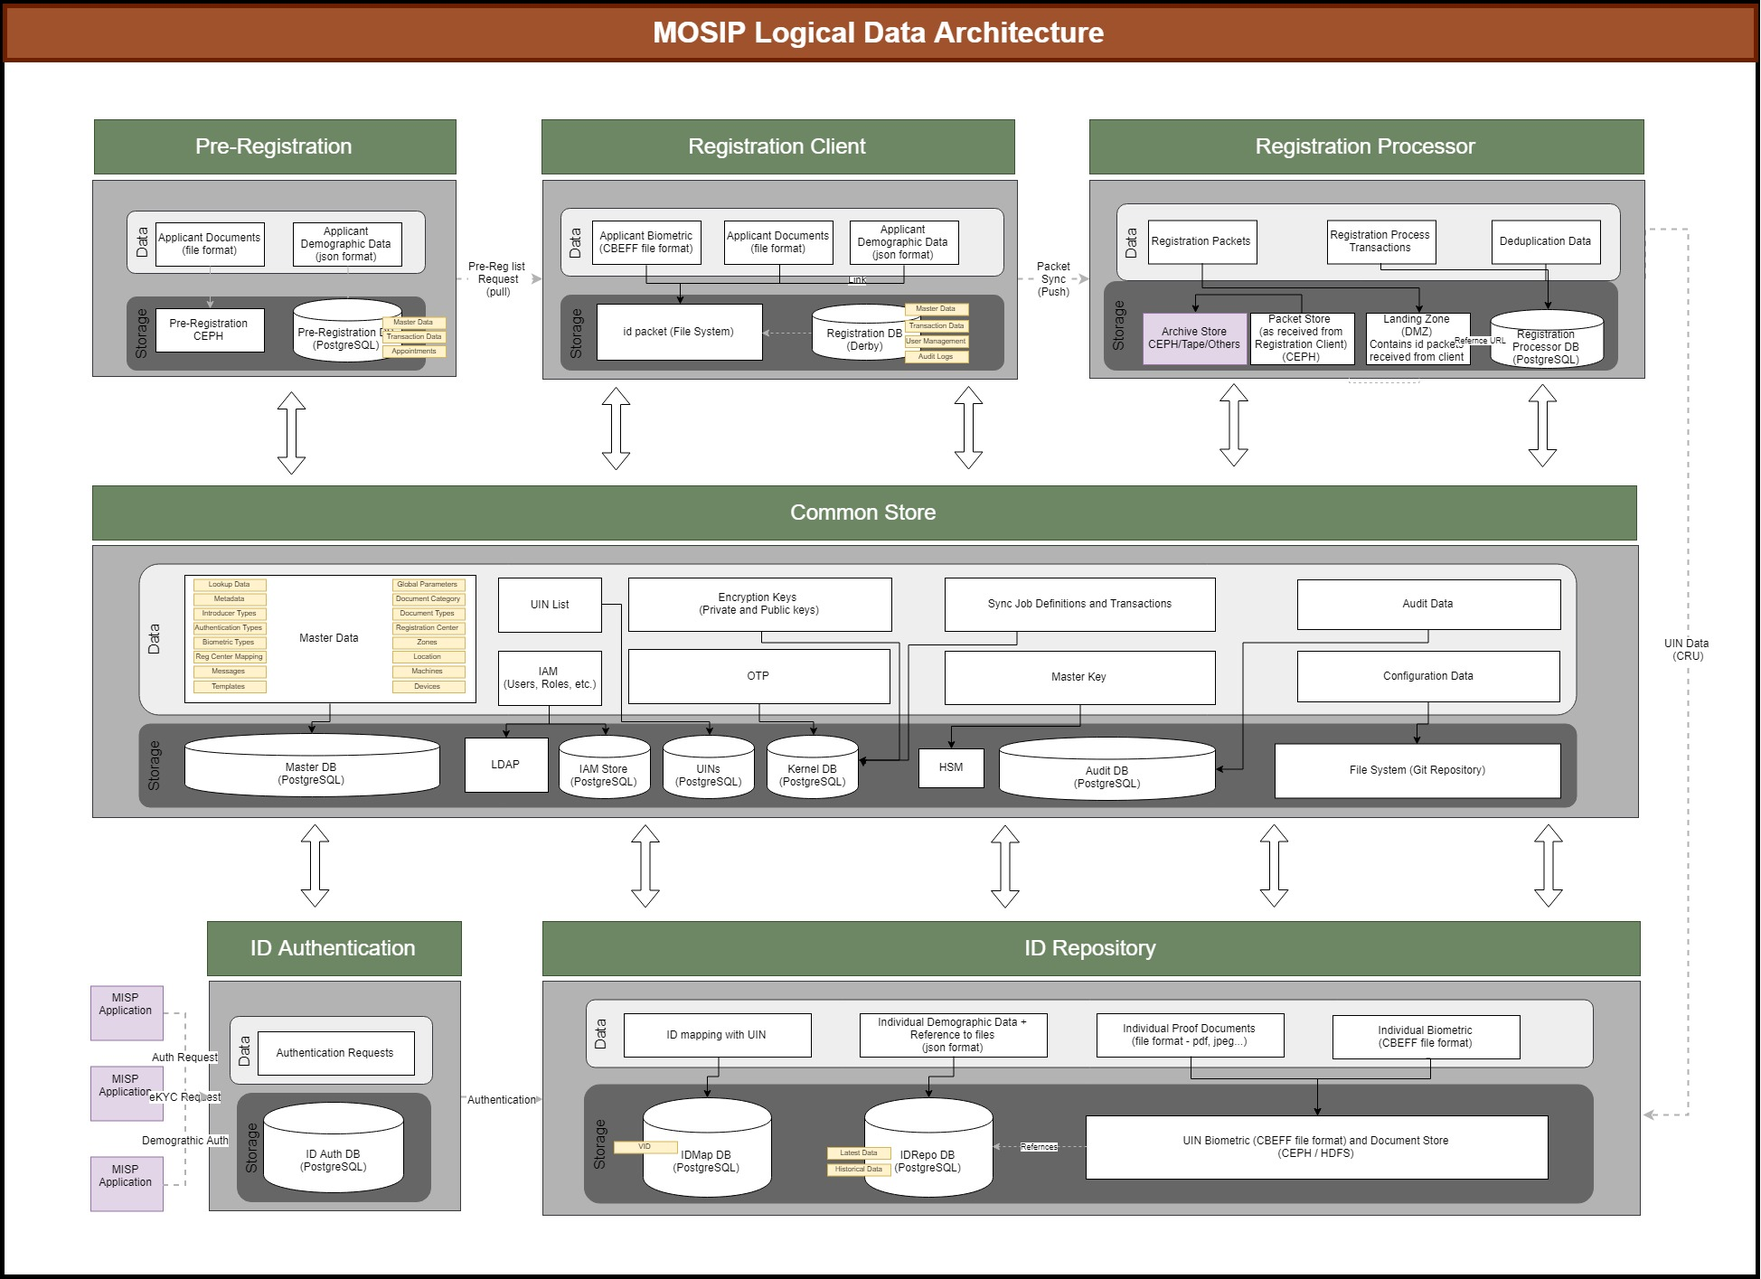
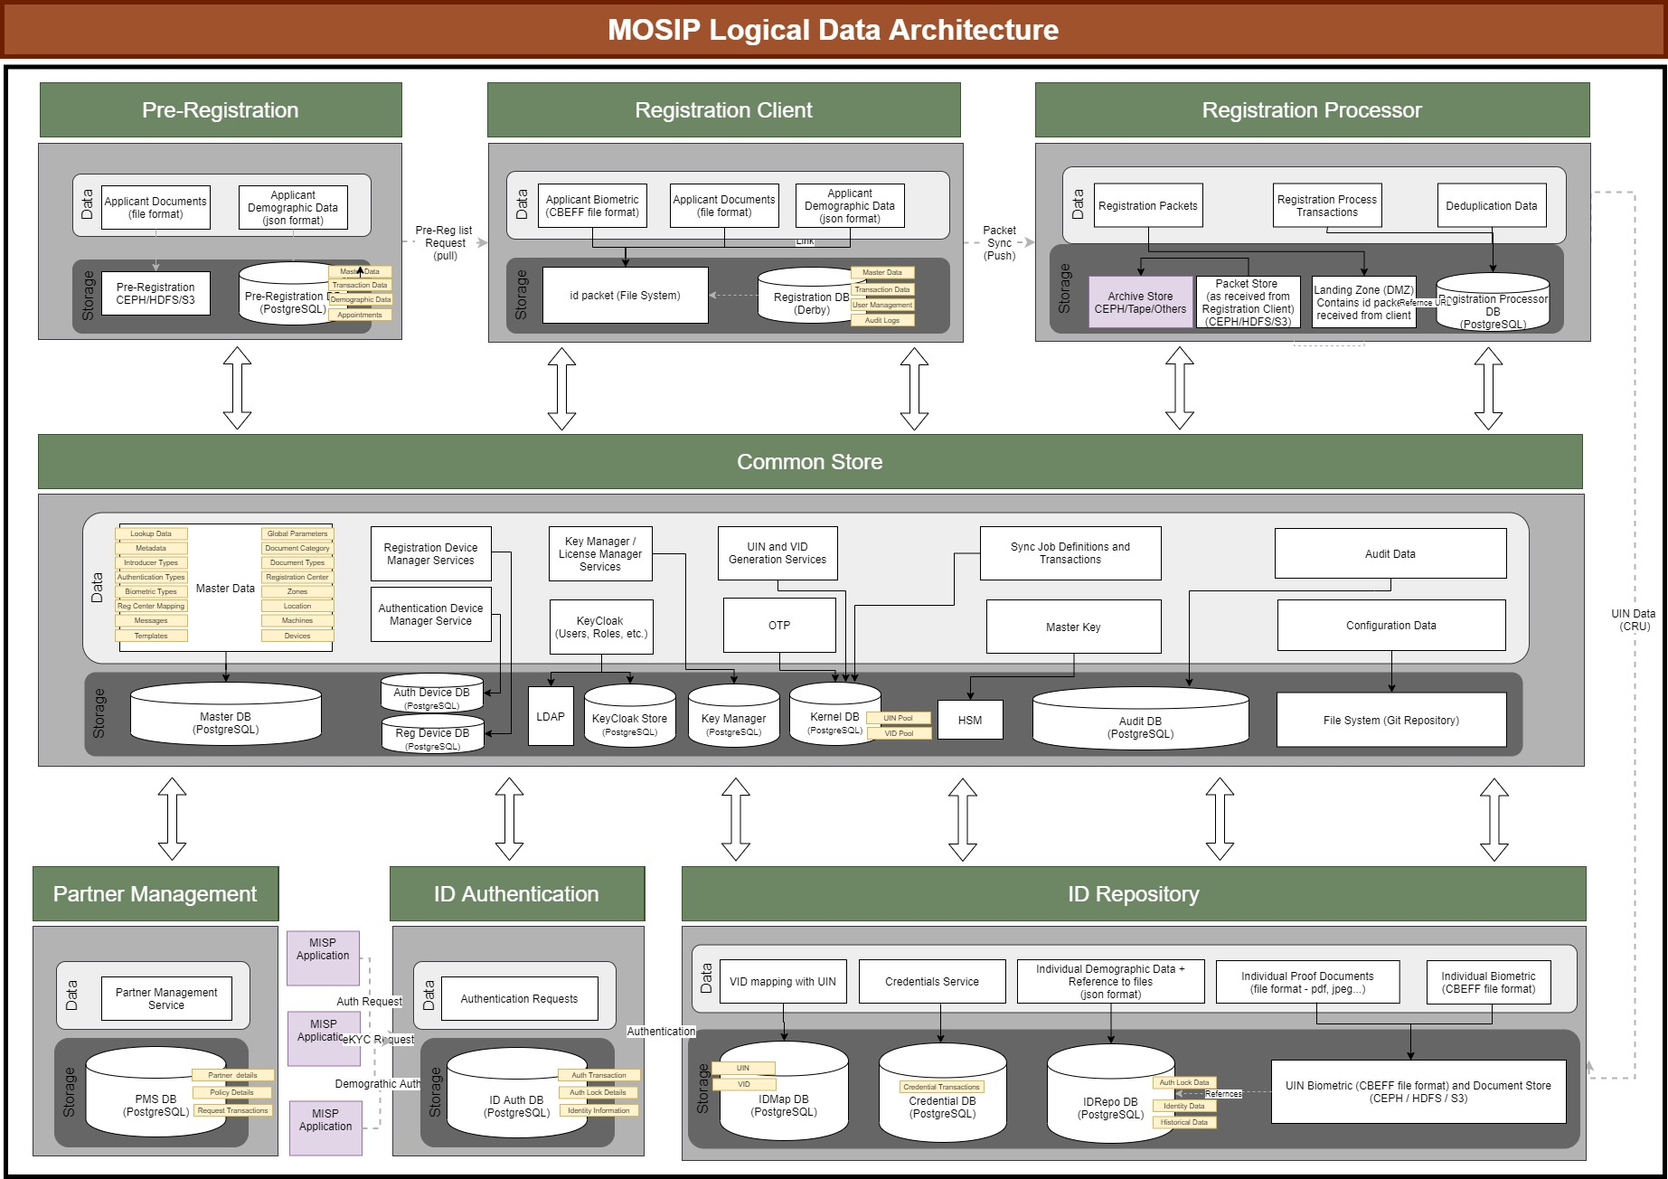
Updated data architecture and database related documents

diff --git a/docs/MOSIP-Data-Model.md b/docs/MOSIP-Data-Model.md
@@ -11,18 +11,22 @@ This section contains details related to MOSIP data model design.The section als
 
 Databases inventory in MOSIP
 
-|Sl No|Database Name|Description|Data Model|Data Dictionary|
+|Sl No|Database Name|Schema Name|Description|Data Model|Data Dictionary|
 |---------|---------|------------|----------|-----------|
-|1|mosip_kernel|Kernel database store security key details, data related to kernel services like sync process, OTP, etc.|<div>[DBM File](https://github.com/mosip/mosip-platform/tree/master/design/data_model/_sources/mosip_kernel.dbm)</div> <div>[Image File ](https://github.com/mosip/mosip-platform/tree/master/design/data_model/_images/mosip_kernel.png)</div>|<div>[mosip_kernel_dd.xlsx ](https://github.com/mosip/mosip-platform/tree/master/design/data_model/mosip_kernel_dd.xlsx)</div>|
-|2|mosip_master|All the master data defined by a country / organization is maintained in mosip_master database. |<div>[DBM File](https://github.com/mosip/mosip-platform/tree/master/design/data_model/_sources/mosip_master.dbm)</div> <div>[Image File ](https://github.com/mosip/mosip-platform/tree/master/design/data_model/_images/mosip_master.png)</div>|<div>[mosip_master_dd.xlsx ](https://github.com/mosip/mosip-platform/tree/master/design/data_model/mosip_master_dd.xlsx)</div>|
-|3|mosip_idrepo|ID repository database stores all the data related to an individual for which an UIN is generated.|<div>[DBM File](https://github.com/mosip/mosip-platform/tree/master/design/data_model/_sources/mosip_idrepo.dbm)</div> <div>[Image File ](https://github.com/mosip/mosip-platform/tree/master/design/data_model/_images/mosip_idrepo.png)</div>|<div>[mosip_idrepo_dd.xlsx](https://github.com/mosip/mosip-platform/tree/master/design/data_model/mosip_idrepo_dd.xlsx)</div>|
-|4|mosip_prereg|Pre-registration database to store the data that is captured as part of pre-registration process and appointments booking.|<div>[DBM File](https://github.com/mosip/mosip-platform/tree/master/design/data_model/_sources/mosip_prereg.dbm)</div> <div>[Image File ](https://github.com/mosip/mosip-platform/tree/master/design/data_model/_images/mosip_prereg.png)</div>|<div>[mosip_prereg_dd.xlsx](https://github.com/mosip/mosip-platform/tree/master/design/data_model/mosip_prereg_dd.xlsx)</div>|
-|5|mosip_reg|Registration client database to capture registration related data. The needed data from MOSIP system will be synched with this database.|<div>[DBM File](https://github.com/mosip/mosip-platform/tree/master/design/data_model/_sources/mosip_reg.dbm)</div> <div>[Image File ](https://github.com/mosip/mosip-platform/tree/master/design/data_model/_images/mosip_reg.png)</div>|<div>[mosip_reg_dd.xlsx](https://github.com/mosip/mosip-platform/tree/master/design/data_model/mosip_reg_dd.xlsx)</div>|
-|6|mosip_regprc|The data related to Registration process flows and transaction will be maintained in this database.|<div>[DBM File](https://github.com/mosip/mosip-platform/tree/master/design/data_model/_sources/mosip_regprc.dbm)</div> <div>[Image File ](https://github.com/mosip/mosip-platform/tree/master/design/data_model/_images/mosip_regprc.png)</div>|<div>[mosip_regprc_dd.xlsx](https://github.com/mosip/mosip-platform/tree/master/design/data_model/mosip_regprc_dd.xlsx)</div>|
-|7|mosip_ida|ID Authentication related requests, transactions will be stored in this database|<div>[DBM File](https://github.com/mosip/mosip-platform/tree/master/design/data_model/_sources/mosip_ida.dbm)</div> <div>[Image File ](https://github.com/mosip/mosip-platform/tree/master/design/data_model/_images/mosip_ida.png)</div>|<div>[mosip_ida_dd.xlsx](https://github.com/mosip/mosip-platform/tree/master/design/data_model/mosip_ida_dd.xlsx)</div>|
-|8|mosip_audit|Audit related logs collected from all modules are stored in this database|<div>[DBM File](https://github.com/mosip/mosip-platform/tree/master/design/data_model/_sources/mosip_audit.dbm)</div> <div>[Image File ](https://github.com/mosip/mosip-platform/tree/master/design/data_model/_images/mosip_audit.png)</div>|<div>[mosip_audit_dd.xlsx](https://github.com/mosip/mosip-platform/tree/master/design/data_model/mosip_audit_dd.xlsx)</div>|
-|9|mosip_iam|The users and roles management related data are stored in this database|<div>[DBM File](https://github.com/mosip/mosip-platform/tree/master/design/data_model/_sources/mosip_iam.dbm)</div> <div>[Image File ](https://github.com/mosip/mosip-platform/tree/master/design/data_model/_images/mosip_iam.png)</div>|<div>[mosip_iam_dd.xlsx](https://github.com/mosip/mosip-platform/tree/master/design/data_model/mosip_iam_dd.xlsx)</div>|
-|10|mosip_idmap|Database to store and manage all the data related to mapping between various IDs, like vid with UIN of an individual|<div>[DBM File](https://github.com/mosip/mosip-platform/tree/master/design/data_model/_sources/mosip_idmap.dbm)</div> <div>[Image File ](https://github.com/mosip/mosip-platform/tree/master/design/data_model/_images/mosip_idmap.png)</div>|<div>[mosip_idmap_dd.xlsx](https://github.com/mosip/mosip-platform/tree/master/design/data_model/mosip_idmap_dd.xlsx)</div>|
+|1|mosip_kernel|kernel|Kernel database store security key details, data related to kernel services like sync process, OTP, etc.|<div>[DBM File](https://github.com/mosip/commons/tree/master/design/data_model/_sources/mosip_kernel.dbm)</div> <div>[Image File ](https://github.com/mosip/commons/tree/master/design/data_model/_images/mosip_kernel.png)</div>|<div>[mosip_kernel_dd.xlsx ](https://github.com/mosip/commons/tree/master/design/data_model/mosip_kernel_dd.xlsx)</div>|
+|2|mosip_master|master|All the master data defined by a country / organization is maintained in mosip_master database. |<div>[DBM File](https://github.com/mosip/commons/tree/master/design/data_model/_sources/mosip_master.dbm)</div> <div>[Image File ](https://github.com/mosip/commons/tree/master/design/data_model/_images/mosip_master.png)</div>|<div>[mosip_master_dd.xlsx ](https://github.com/mosip/commons/tree/master/design/data_model/mosip_master_dd.xlsx)</div>|
+|3|mosip_idrepo|idrepo|ID repository database stores all the data related to an individual for which an UIN is generated.|<div>[DBM File](https://github.com/mosip/id-repository/tree/master/design/data_model/_sources/mosip_idrepo.dbm)</div> <div>[Image File ](https://github.com/mosip/id-repository/tree/master/design/data_model/_images/mosip_idrepo.png)</div>|<div>[mosip_idrepo_dd.xlsx](https://github.com/mosip/id-repository/tree/master/design/data_model/mosip_idrepo_dd.xlsx)</div>|
+|4|mosip_prereg|prereg|Pre-registration database to store the data that is captured as part of pre-registration process and appointments booking.|<div>[DBM File](https://github.com/mosip/pre-registration/tree/master/design/data_model/_sources/mosip_prereg.dbm)</div> <div>[Image File ](https://github.com/mosip/pre-registration/tree/master/design/data_model/_images/mosip_prereg.png)</div>|<div>[mosip_prereg_dd.xlsx](https://github.com/mosip/pre-registration/tree/master/design/data_model/mosip_prereg_dd.xlsx)</div>|
+|5|mosip_reg|reg|Registration client database to capture registration related data. The needed data from MOSIP system will be synched with this database.|<div>[DBM File](https://github.com/mosip/registration/tree/master/design/data_model/_sources/mosip_reg.dbm)</div> <div>[Image File ](https://github.com/mosip/registration/tree/master/design/data_model/_images/mosip_reg.png)</div>|<div>[mosip_reg_dd.xlsx](https://github.com/mosip/registration/tree/master/design/data_model/mosip_reg_dd.xlsx)</div>|
+|6|mosip_regprc|regprc|The data related to Registration process flows and transaction will be maintained in this database.|<div>[DBM File](https://github.com/mosip/registration/tree/master/design/data_model/_sources/mosip_regprc.dbm)</div> <div>[Image File ](https://github.com/mosip/registration/tree/master/design/data_model/_images/mosip_regprc.png)</div>|<div>[mosip_regprc_dd.xlsx](https://github.com/mosip/registration/tree/master/design/data_model/mosip_regprc_dd.xlsx)</div>|
+|7|mosip_ida|ida|ID Authentication related requests, transactions will be stored in this database|<div>[DBM File](https://github.com/mosip/id-authentication/tree/master/design/data_model/_sources/mosip_ida.dbm)</div> <div>[Image File ](https://github.com/mosip/id-authentication/tree/master/design/data_model/_images/mosip_ida.png)</div>|<div>[mosip_ida_dd.xlsx](https://github.com/mosip/id-authentication/tree/master/design/data_model/mosip_ida_dd.xlsx)</div>|
+|8|mosip_audit|audit|Audit related logs collected from all modules are stored in this database|<div>[DBM File](https://github.com/mosip/commons/tree/master/design/data_model/_sources/mosip_audit.dbm)</div> <div>[Image File ](https://github.com/mosip/commons/tree/master/design/data_model/_images/mosip_audit.png)</div>|<div>[mosip_audit_dd.xlsx](https://github.com/mosip/commons/tree/master/design/data_model/mosip_audit_dd.xlsx)</div>|
+|9|mosip_credential|credential|Credential request from MOSIP applications related entities and its data is stored in this database|<div>[DBM File](https://github.com/mosip/id-repository/tree/master/design/data_model/_sources/mosip_credential.dbm)</div> <div>[Image File ](https://github.com/mosip/id-repository/tree/master/design/data_model/_images/mosip_credential.png)</div>|<div>[mosip_iam_dd.xlsx](https://github.com/mosip/id-repository/tree/master/design/data_model/mosip_credential_dd.xlsx)</div>|
+|10|mosip_idmap|idmap|Database to store and manage all the data related to mapping between various IDs, like vid with UIN of an individual|<div>[DBM File](https://github.com/mosip/id-repository/tree/master/design/data_model/_sources/mosip_idmap.dbm)</div> <div>[Image File ](https://github.com/mosip/id-repository/tree/master/design/data_model/_images/mosip_idmap.png)</div>|<div>[mosip_idmap_dd.xlsx](https://github.com/mosip/id-repository/tree/master/design/data_model/mosip_idmap_dd.xlsx)</div>|
+|11|mosip_keymgr|keymgr|Key Manager database maintains common system configurations, data related to key services like encryption, decryption keys, certificates..etc|<div>[DBM File](https://github.com/mosip/commons/tree/master/design/data_model/_sources/mosip_keymgr.dbm)</div> <div>[Image File ](https://github.com/mosip/commons/tree/master/design/data_model/_images/mosip_keymgr.png)</div>|<div>[mosip_keymgr_dd.xlsx](https://github.com/mosip/commons/tree/master/design/data_model/mosip_keymgr_dd.xlsx)</div>|
+|12|mosip_regdevice|regdevice|Database to store all registration device management data, look-up data, configuration data, metadata...etc|<div>[DBM File](https://github.com/mosip/commons/tree/master/design/data_model/_sources/mosip_regdevice.dbm)</div> <div>[Image File ](https://github.com/mosip/commons/tree/master/design/data_model/_images/mosip_regdevice.png)</div>|<div>[mosip_regdevice_dd.xlsx](https://github.com/mosip/commons/tree/master/design/data_model/mosip_regdevice_dd.xlsx)</div>|
+|13|mosip_authdevice|authdevice|Database to store all partner authentication device management data, look-up data, configuration data, metadata...etc|<div>[DBM File](https://github.com/mosip/commons/tree/master/design/data_model/_sources/mosip_authdevice.dbm)</div> <div>[Image File ](https://github.com/mosip/commons/tree/master/design/data_model/_images/mosip_authdevice.png)</div>|<div>[mosip_authdevice_dd.xlsx](https://github.com/mosip/commons/tree/master/design/data_model/mosip_authdevice_dd.xlsx)</div>|
+|14|mosip_pms|pms|Partner Management Service related entities and its data is stored in this database'|<div>[DBM File](https://github.com/mosip/partner-management-services/tree/master/design/data_model/_sources/mosip_pms.dbm)</div> <div>[Image File ](https://github.com/mosip/partner-management-services/tree/master/design/data_model/_images/mosip_pms.png)</div>|<div>[mosip_pms_dd.xlsx](https://github.com/mosip/partner-management-services/tree/master/design/data_model/mosip_pms_dd.xlsx)</div>|
 
 
 

diff --git a/docs/Data-Architecture.md b/docs/Data-Architecture.md
@@ -1,28 +1,9 @@
-MOSIP deals with sensitive information pertaining to the identity of people. It is a central repository of identity data and extra attention is paid to ensure the security and privacy of this data. MOSIP advocates minimalism in the data collected and incorporates features to minimise interpretation of this data as information. A low to zero knowledge design paradigm is used to achieve this.
-
-## Data sets in MOSIP
-* Master Data - This includes lookups, locations, centers, devices, zones etc. This is not sensitive information
-* Configuration Manager Data - This includes system configuration information and must be protected. It does not contain any personal information. 
-* Registration Client Database - This is a local database in the registration client. This contains local copies of the relevant master data, downloaded pre-registration information and some transactional information. The pre-registration information is sensitive and is encrypted and stored.
-* Registration Packets - Registration packets are created and encrypted in memory on the registration client and then persisted in the encrypted form. The sync process moves these packets to the server for processing. These packets are the source of truth and are digitally signed.
-* Registration Processor Database -  The registration processor contains transactional information of the RIDs being processed and do not contain any personal information.
-* ID Repository Entries - ID Repository contains the identity data. This includes the biographic/demographich information and the biometric information. The actual storage of these is distributed between RDBMS and object storage.
-* Authentication Entries - It has encrypted records with one way linkage to the ID using cryptography. The information can be decrypted for return as part of KYC response. Biometrics stored here are only non-reversible extracts. A low-resolution photograph can be stored for KYC purposes.
-* Partner Management Data - This contains protected information such as the API Key and Public Key of the partner. There is not personal information here.
-* Audit Trail - This does not contain any personal information. It does contain transaction id for traceability.
-* Application Logs - These logs do not contain any personal information.
-* Resident Services Data - This has transaction history with ID numbers, but does not contain any personal information.
-* Pre Registration Data - This has personal information and is stored in an encrypted form.
-* IAM Data - The mosip system user list is present here and this is protected information as it controls access to the system.
-
-
-## Data Storage Guidelines
-* PII of an individual like name, age, gender, address etc... and other sensitive information must be signed and stored in an encrypted form.
-* Documents and images must not be stored in a database table. They must be stored in a object store and referenced in DB.
-* Object store should have only encrypted data present in it with access control.
+## Data Architecture Principles
+* PII of an individual like name, age, gender, phone, email address etc... and other sensitive information must be signed and stored in an encrypted form
+* Documents and images must not be stored in a database table. They must be stored in a file system and referenced in DB.
 * No business logic applied at database level, only Primary, Unique, foreign keys and not-null are applied. Foreign keys are applied within the same database, if a table is referenced in another database then no FK is applied.
 * Database specific features like triggers, DB functions like sequence generators etc.… must not be used in MOSIP. This avoids vendor lock-in
-* Surrogate key, wherever used, must be a random number and not be generated based on the record data.
+* Surrogate key, wherever used, must be a random number and not be generated based on the record data or sequence number.
 * Direct queries on the database by a human must not be made. Database administrators must ensure this control during database configuration setup
 * Database is setup in UTF-8*** file format to support multiple languages
 * Following data types are used
@@ -38,12 +19,12 @@ MOSIP deals with sensitive information pertaining to the identity of people. It 
 
 ![](_images/arch_diagrams/mosip_data_architecture_v1.jpg)
 
-## Access Control to Data
+## Security
 In MOSIP, the following users are defined to perform various activities and have control over the DB objects that are defined
 * **sysadmin:** sysadmin user is a super administrator role, who will have all the privileges to perform any task within the database. Currently all the objects are being owned by sysadmin.
 * **dbadmin:** dbadmin user is created to handle all the database administration activities like monitoring, performance tuning, backups, restore, replication setup, etc.
 * **appadmin:** appadmin user is used to perform all the DDL tasks. All the db objects that are created in these databases will be owned by appadmin user.
-* **Application User:** Each module will have a user created to perform DML tasks like CRUD operations. Will have masteruser, prereguser, idauser, idrepouser, idmapuser, kerneluser, audituser, regprcuser to perform tasks in respective modules.
+* **Application User:** Each module will have a user created to perform DML tasks like CRUD operations. Will have masteruser, prereguser, idauser, idrepouser, idmapuser, kerneluser, audituser, regprcuser, keymgruser, regdeviceuser, authdeviceuser to perform tasks in respective modules.
 
 {% hint style="info" %}
 From the above set of roles only application user is specific to a module. The other users are common which needs to be created per PostgreSQL db instance.
@@ -58,7 +39,7 @@ MOSIP platform is being built for multiple countries, there is a need to support
 * Messages and notifications
 
 From database side, the data will support **UTF-8 Unicode character set** to store data entered in multiple languages. 
-There will not be any in-built support to translate data at database level. Any translation or transliteration will be handled at API or UI layer. Internationalization support is available to handle multiple language needs in the user interface and communication templates. For master data the information can be stored in multiple languages. For user data MOSIP supports storage of data in two languages.
+There will not be any in-built support to translate data at database level. Any translation or transliteration will be handled at API or UI layer.
 
 ## Performance
 To support performance, following database design features are to be considered
@@ -67,7 +48,9 @@ To support performance, following database design features are to be considered
 * All foreign keys will have indexes defined so that it will help in faster joins
 * No referential integrity is applied on tables across databases
 * Partitioning: Partitioning design is database-specific.   Depending upon the chosen database,  the  country may employ the partitioning approach as prescribed by the database engine"
-* Data in object stores should be easily addressable with hierarchical path conventions
+
+## Data Model Naming Standards
+[Naming Standards](Data-Model-Naming-Standards.md)
 
 ## Data Model Consideration
 * **Meaningful Naming:** DB objects that are being created will have a meaningful naming.
@@ -75,3 +58,6 @@ To support performance, following database design features are to be considered
 * **Database specific features:** Use of DB specific features like defaults, DB sequences, identify fields are not used.
 * **No business logic at DB:** No business logic implemented at database level other than PK, UK, FKs. 
 * **Data Security:** Individual and security related information is encrypted.
+
+## Data Encryption
+[Encryption in DTO Layer](Encryption-in-DTO-Layer.md)

diff --git a/docs/Data-Model-Naming-Standards.md b/docs/Data-Model-Naming-Standards.md
@@ -1,6 +1,6 @@
 ## Audience
 * Data Modelers
-* DBAs
+* Dadabase Administrators
 * Database Developers
 * Application Developers
 
@@ -41,11 +41,11 @@ Indexes are named as idx_(table-alias)_(column-abbreviation)
 
 ## Key Naming Standards (Primary, Unique, Foreign Keys)
 
-**Primary Key:** Each table should have a primary key, the key should be named as “pk_(table-alias)_(column-name)”. If it is a composite key, then in place of column name any meaning full name can be provided. 
+**Primary Key:** Each table should have a primary key, the key should be named as “pk_table-alias_column-name”. If it is a composite key, then in place of column name any meaning full name can be provided. 
 
-**Unique Key:** If a surrogate is used as PK then create a unique key, on fields that uniquely defines a business key. The naming of the unique key should be “uk_(table-alias)_(column-names)”.
+**Unique Key:** If a surrogate is used as PK then create a unique key, on fields that uniquely defines a business key. The naming of the unique key should be “uk_table-alias_column-names”.
 
-**Foreign Key:** Any references from a table with the other tables, the creating a foreign key is mandatory. This helps maintain referential integrity. Foreign key can be named as fk__(table-alias1)_(table-alias2)
+**Foreign Key:** Any references from a table with the other tables, the creating a foreign key is mandatory. This helps maintain referential integrity. Foreign key can be named as fk__table-alias1_table-alias2
 
 ## Attribute Standards
 
